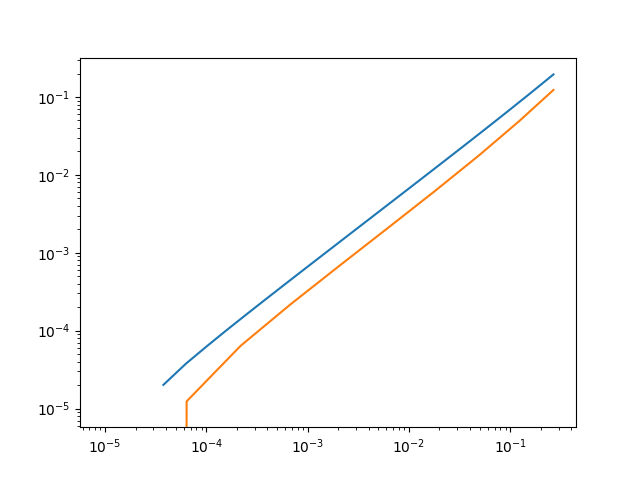
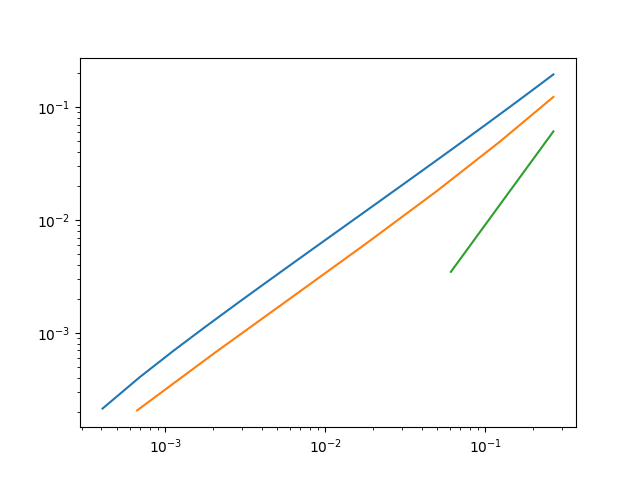
problem_4

diff --git a/Homework/homework4/problem4.py b/Homework/homework4/problem4.py
@@ -51,7 +51,7 @@ def modnewton(f,fp,fpp,x0,tol,Nmax):
 
 def driver():
     x0 = 4
-    tol = 10**-5
+    tol = 10**-4
     Nmax = 200
     m = 2
     f = lambda x : np.exp(3*x) + 27*(-x**6+ x**4*np.exp(x)) - 9 * x**2 * np.exp(2*x)
@@ -60,14 +60,22 @@ def driver():
     [x1,xstar1,info1,i1] = newtons(f,fp,x0,tol,Nmax)
     [x2,xstar2,info2,i2] = newton2c(f,fp,x0,tol,Nmax,m)
     [x3,xstar3,info3,i3] = modnewton(f,fp,fpp,x0,tol,Nmax)
-    b= max(i1,i2,i3)
     plt.xscale("log")
     plt.yscale("log")
-    plt.plot(x1[0:b-1]-xstar1, x1[1:b]-xstar1)
-    plt.plot(x2[0:b-1]-xstar2, x2[1:b]-xstar2)
-    plt.plot(x3[0:b-1]-xstar3, x3[1:b]-xstar3)
-    print(linregress(x1[0:b-1]-xstar1, x1[1:b]-xstar1))
-    print(linregress(x2[0:b-1]-xstar2, x2[1:b]-xstar2))
-    print(linregress(x3[0:b-1]-xstar3, x3[1:b]-xstar3))
+    plt.plot(abs(x1[0:i1-1]-xstar1), abs(x1[1:i1]-xstar1))
+    plt.plot(abs(x2[0:i2-1]-xstar2), abs(x2[1:i2]-xstar2))
+    plt.plot(abs(x3[0:i3-1]-xstar3), abs(x3[1:i3]-xstar3))
+    print("Newton:")
+    print("\tRoot:", xstar1) 
+    print("\tSuccsess:","Yes" if info1 ==0 else "No")
+    print("\tOrder:",linregress(np.log(abs(x1[0:i1-1]-xstar1)), np.log(abs(x1[1:i1]-xstar1)))[0])
+    print("Problem 2c")
+    print("\tRoot:", xstar2) 
+    print("\tSuccsess:","Yes" if info2 ==0 else "No")
+    print("\tOrder:",linregress(np.log(abs(x2[0:i2-1]-xstar2)), np.log(abs(x2[1:i2]-xstar2)))[0])
+    print("Class")
+    print("\tRoot:", xstar3) 
+    print("\tSuccsess:", "Yes"if info3 ==0 else "No")
+    print("\tClass Order:",linregress(np.log(abs(x3[0:i3-1]-xstar3)), np.log(abs(x3[1:i3]-xstar3)))[0])
     plt.savefig("plot4.png")
 driver()
